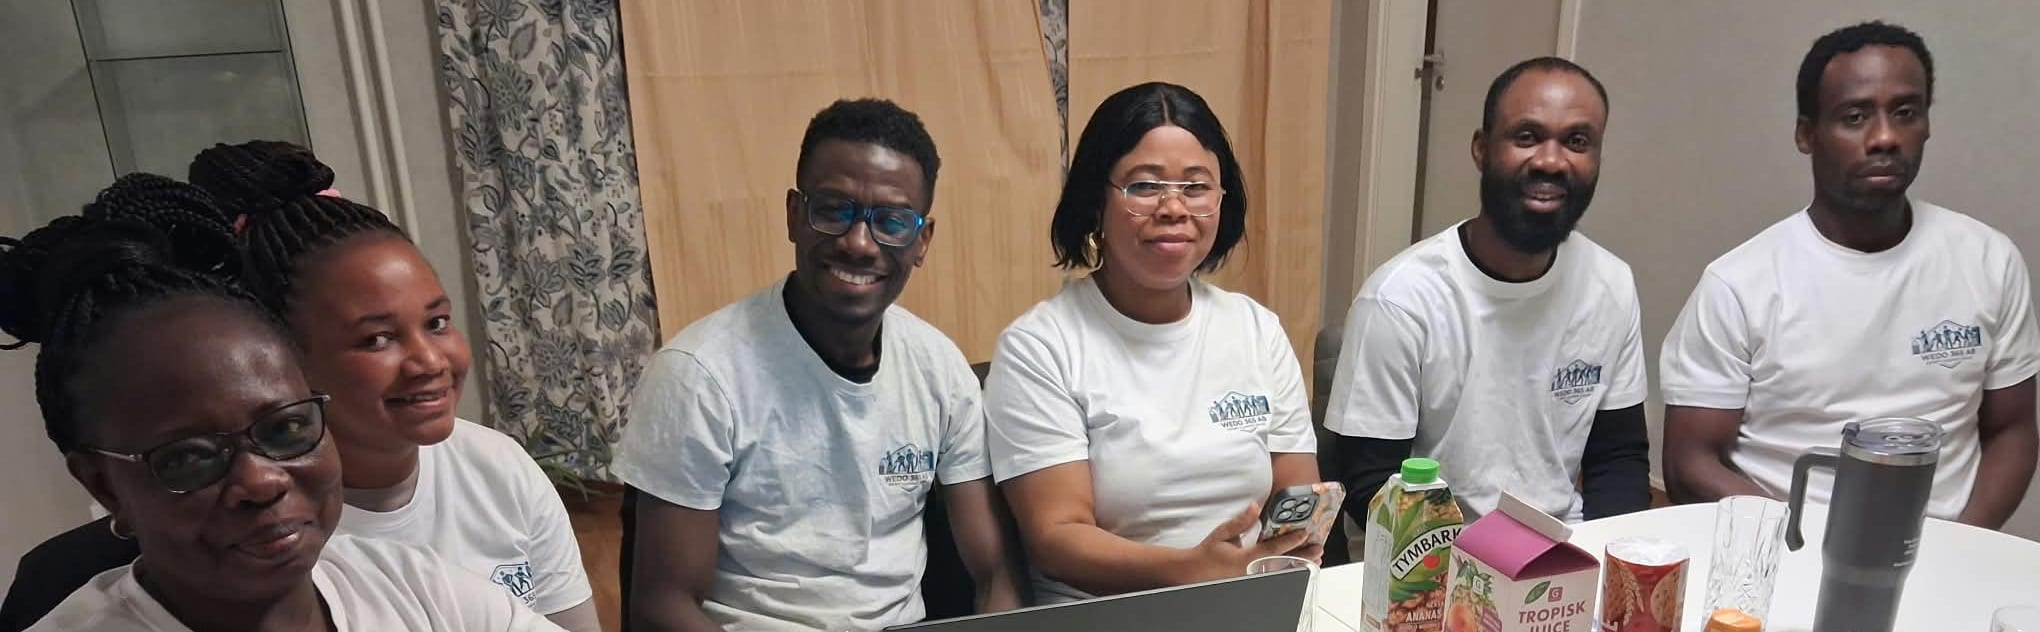
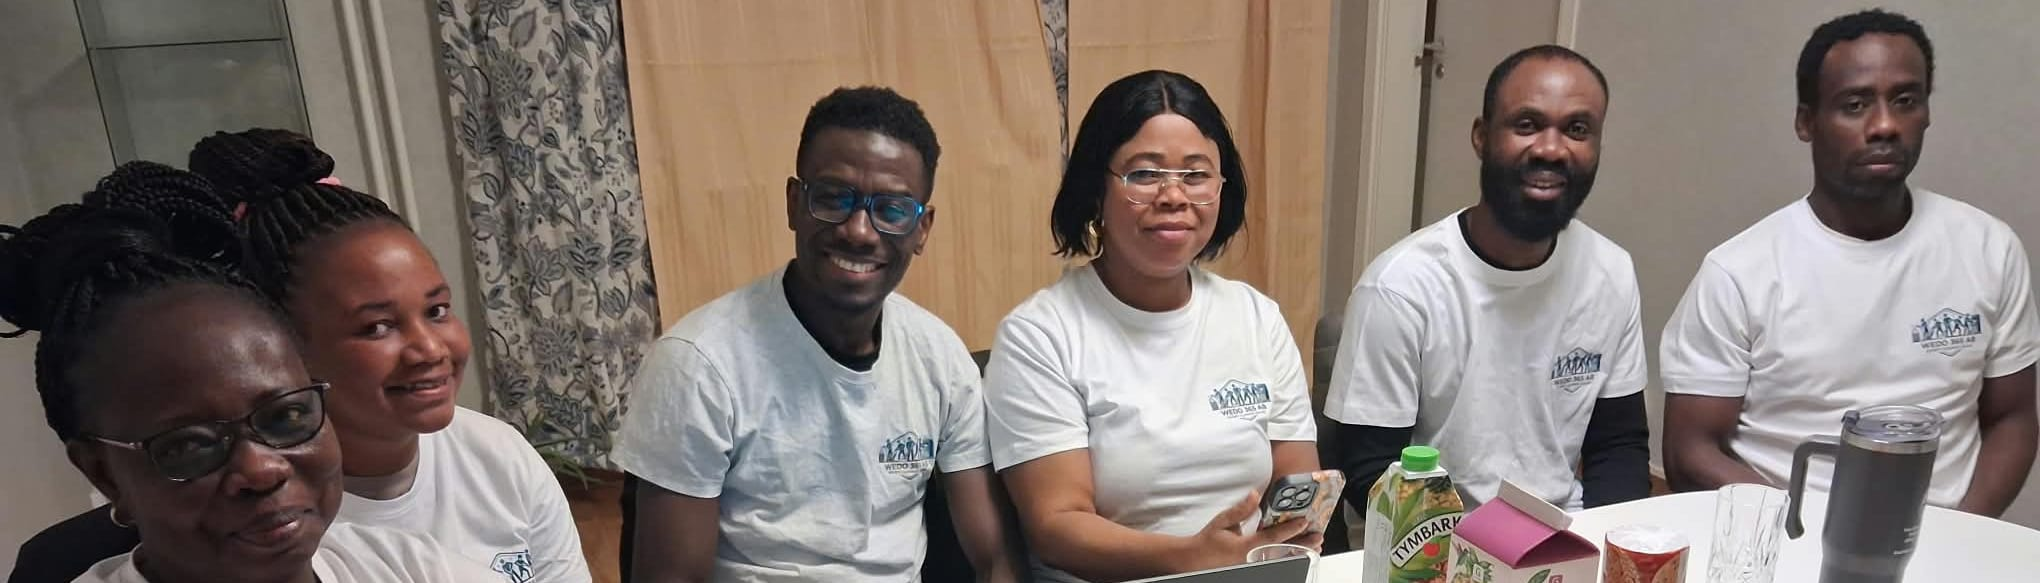
Team band: full container width, 3.5:1 crop, alignment test

diff --git a/src/components/sections/TeamBand.tsx b/src/components/sections/TeamBand.tsx
@@ -6,10 +6,12 @@ import { TEAM_PHOTO } from "@/config/images";
  * per width (see TEAM_PHOTO), each shown in a box of its own aspect ratio, so
  * the space is reserved before the image loads and all six faces always fit.
  * It is the largest content on the page, so it is fetched with high priority.
- * The blur placeholders are CSS backgrounds, one per crop. From md the box is
- * as wide as the viewport height allows (--band-h, about 300px at 900px tall,
- * never under 184px), so the headline stays above the fold on laptops; the
- * caption sits in the gap below, which is the hero's own top padding.
+ * The blur placeholders are CSS backgrounds, one per crop. The band is always
+ * the full width of the page container, so it lines up with the header and
+ * the hero. Only on short screens (under 860px tall, from md) is it narrower,
+ * left-aligned and sized by --band-h (never under 184px), so the headline stays
+ * above the fold on small laptops. The caption sits in the gap below, which is
+ * the hero's own top padding.
  */
 export function TeamBand({ alt, caption }: { alt: string; caption: string }) {
   const { landscape, tablet, phone } = TEAM_PHOTO;
@@ -38,10 +40,10 @@ export function TeamBand({ alt, caption }: { alt: string; caption: string }) {
       <figure
         style={
           {
-            "--band-h": "clamp(184px, calc(100svh - 600px), 360px)",
+            "--band-h": "clamp(184px, calc(100svh - 600px), 329px)",
           } as React.CSSProperties
         }
-        className="relative mx-auto md:w-[min(100%,calc(var(--band-h)*2040/632))]"
+        className="relative md:[@media(max-height:859px)]:w-[min(100%,calc(var(--band-h)*2040/583))]"
       >
         <div
           style={
@@ -51,7 +53,7 @@ export function TeamBand({ alt, caption }: { alt: string; caption: string }) {
               "--blur-landscape": `url("${landscape.blurDataURL}")`,
             } as React.CSSProperties
           }
-          className="aspect-[2040/1530] overflow-hidden rounded-photo bg-(image:--blur-phone) bg-cover min-[480px]:aspect-[2040/850] min-[480px]:bg-(image:--blur-tablet) md:aspect-[2040/632] md:bg-(image:--blur-landscape)"
+          className="aspect-[2040/1530] overflow-hidden rounded-photo bg-(image:--blur-phone) bg-cover min-[480px]:aspect-[2040/850] min-[480px]:bg-(image:--blur-tablet) md:aspect-[2040/583] md:bg-(image:--blur-landscape)"
         >
           <picture>
             <source

diff --git a/src/config/image-blur.ts b/src/config/image-blur.ts
@@ -29,7 +29,7 @@ export const BLUR: Record<string, string> = {
   "business-band-poster":
[1 lines of base64/hex data omitted]
   "team-wedo365-landscape":
[2 lines of base64/hex data omitted]
   "team-wedo365-tablet":
[1 lines of base64/hex data omitted]
   "team-wedo365-phone":

diff --git a/e2e/team-band.spec.ts b/e2e/team-band.spec.ts
@@ -38,6 +38,44 @@ for (const width of WIDTHS) {
   });
 }
 
+for (const width of [1280, 1440, 1920, 2560]) {
+  test(`team band lines up with the header and hero at ${width}px`, async ({
+    page,
+  }) => {
+    await page.setViewportSize({ width, height: 900 });
+    await page.goto("/");
+    await page.evaluate(() => document.fonts.ready);
+    const edges = await page.evaluate(() => {
+      const box = (el: Element | null) => el!.getBoundingClientRect();
+      const row = document.querySelector('[data-testid="site-header-row"]')!;
+      const links = [...row.querySelectorAll("a")].filter(
+        (a) => a.getBoundingClientRect().width > 0,
+      );
+      return {
+        band: box(document.querySelector('[data-testid="team-band"] picture')),
+        caption: box(
+          document.querySelector('[data-testid="team-band"] figcaption'),
+        ),
+        h1: box(document.querySelector("h1")),
+        logo: box(links[0]),
+        send: box(links[links.length - 1]),
+        slider: box(
+          document.querySelector('[aria-roledescription="carousel"] ul'),
+        ),
+      };
+    });
+    expect(Math.abs(edges.band.left - edges.h1.left)).toBeLessThanOrEqual(1);
+    expect(Math.abs(edges.band.left - edges.logo.left)).toBeLessThanOrEqual(1);
+    expect(Math.abs(edges.caption.left - edges.h1.left)).toBeLessThanOrEqual(1);
+    expect(Math.abs(edges.band.right - edges.slider.right)).toBeLessThanOrEqual(
+      1,
+    );
+    expect(Math.abs(edges.band.right - edges.send.right)).toBeLessThanOrEqual(
+      1,
+    );
+  });
+}
+
 for (const [width, height] of [
   [1440, 900],
   [1280, 720],

diff --git a/src/config/images.ts b/src/config/images.ts
@@ -105,11 +105,11 @@ export const hasImage = (key: ImageKey) => IMAGES[key] !== null;
 export type TeamCrop = SiteImage & { from: number };
 
 export const TEAM_PHOTO: Record<"landscape" | "tablet" | "phone", TeamCrop> = {
-  // >= 768px: 3.23:1, about 220px tall at 768, 300px at 1024, 355px at 1280+.
+  // >= 768px: 3.5:1, about 206px tall at 768, 329px at the full 1152px.
   landscape: {
     src: "/images/team-wedo365-landscape.jpg",
     width: 2040,
-    height: 632,
+    height: 583,
     blurDataURL: BLUR["team-wedo365-landscape"],
     position: "50% 45%",
     from: 768,
